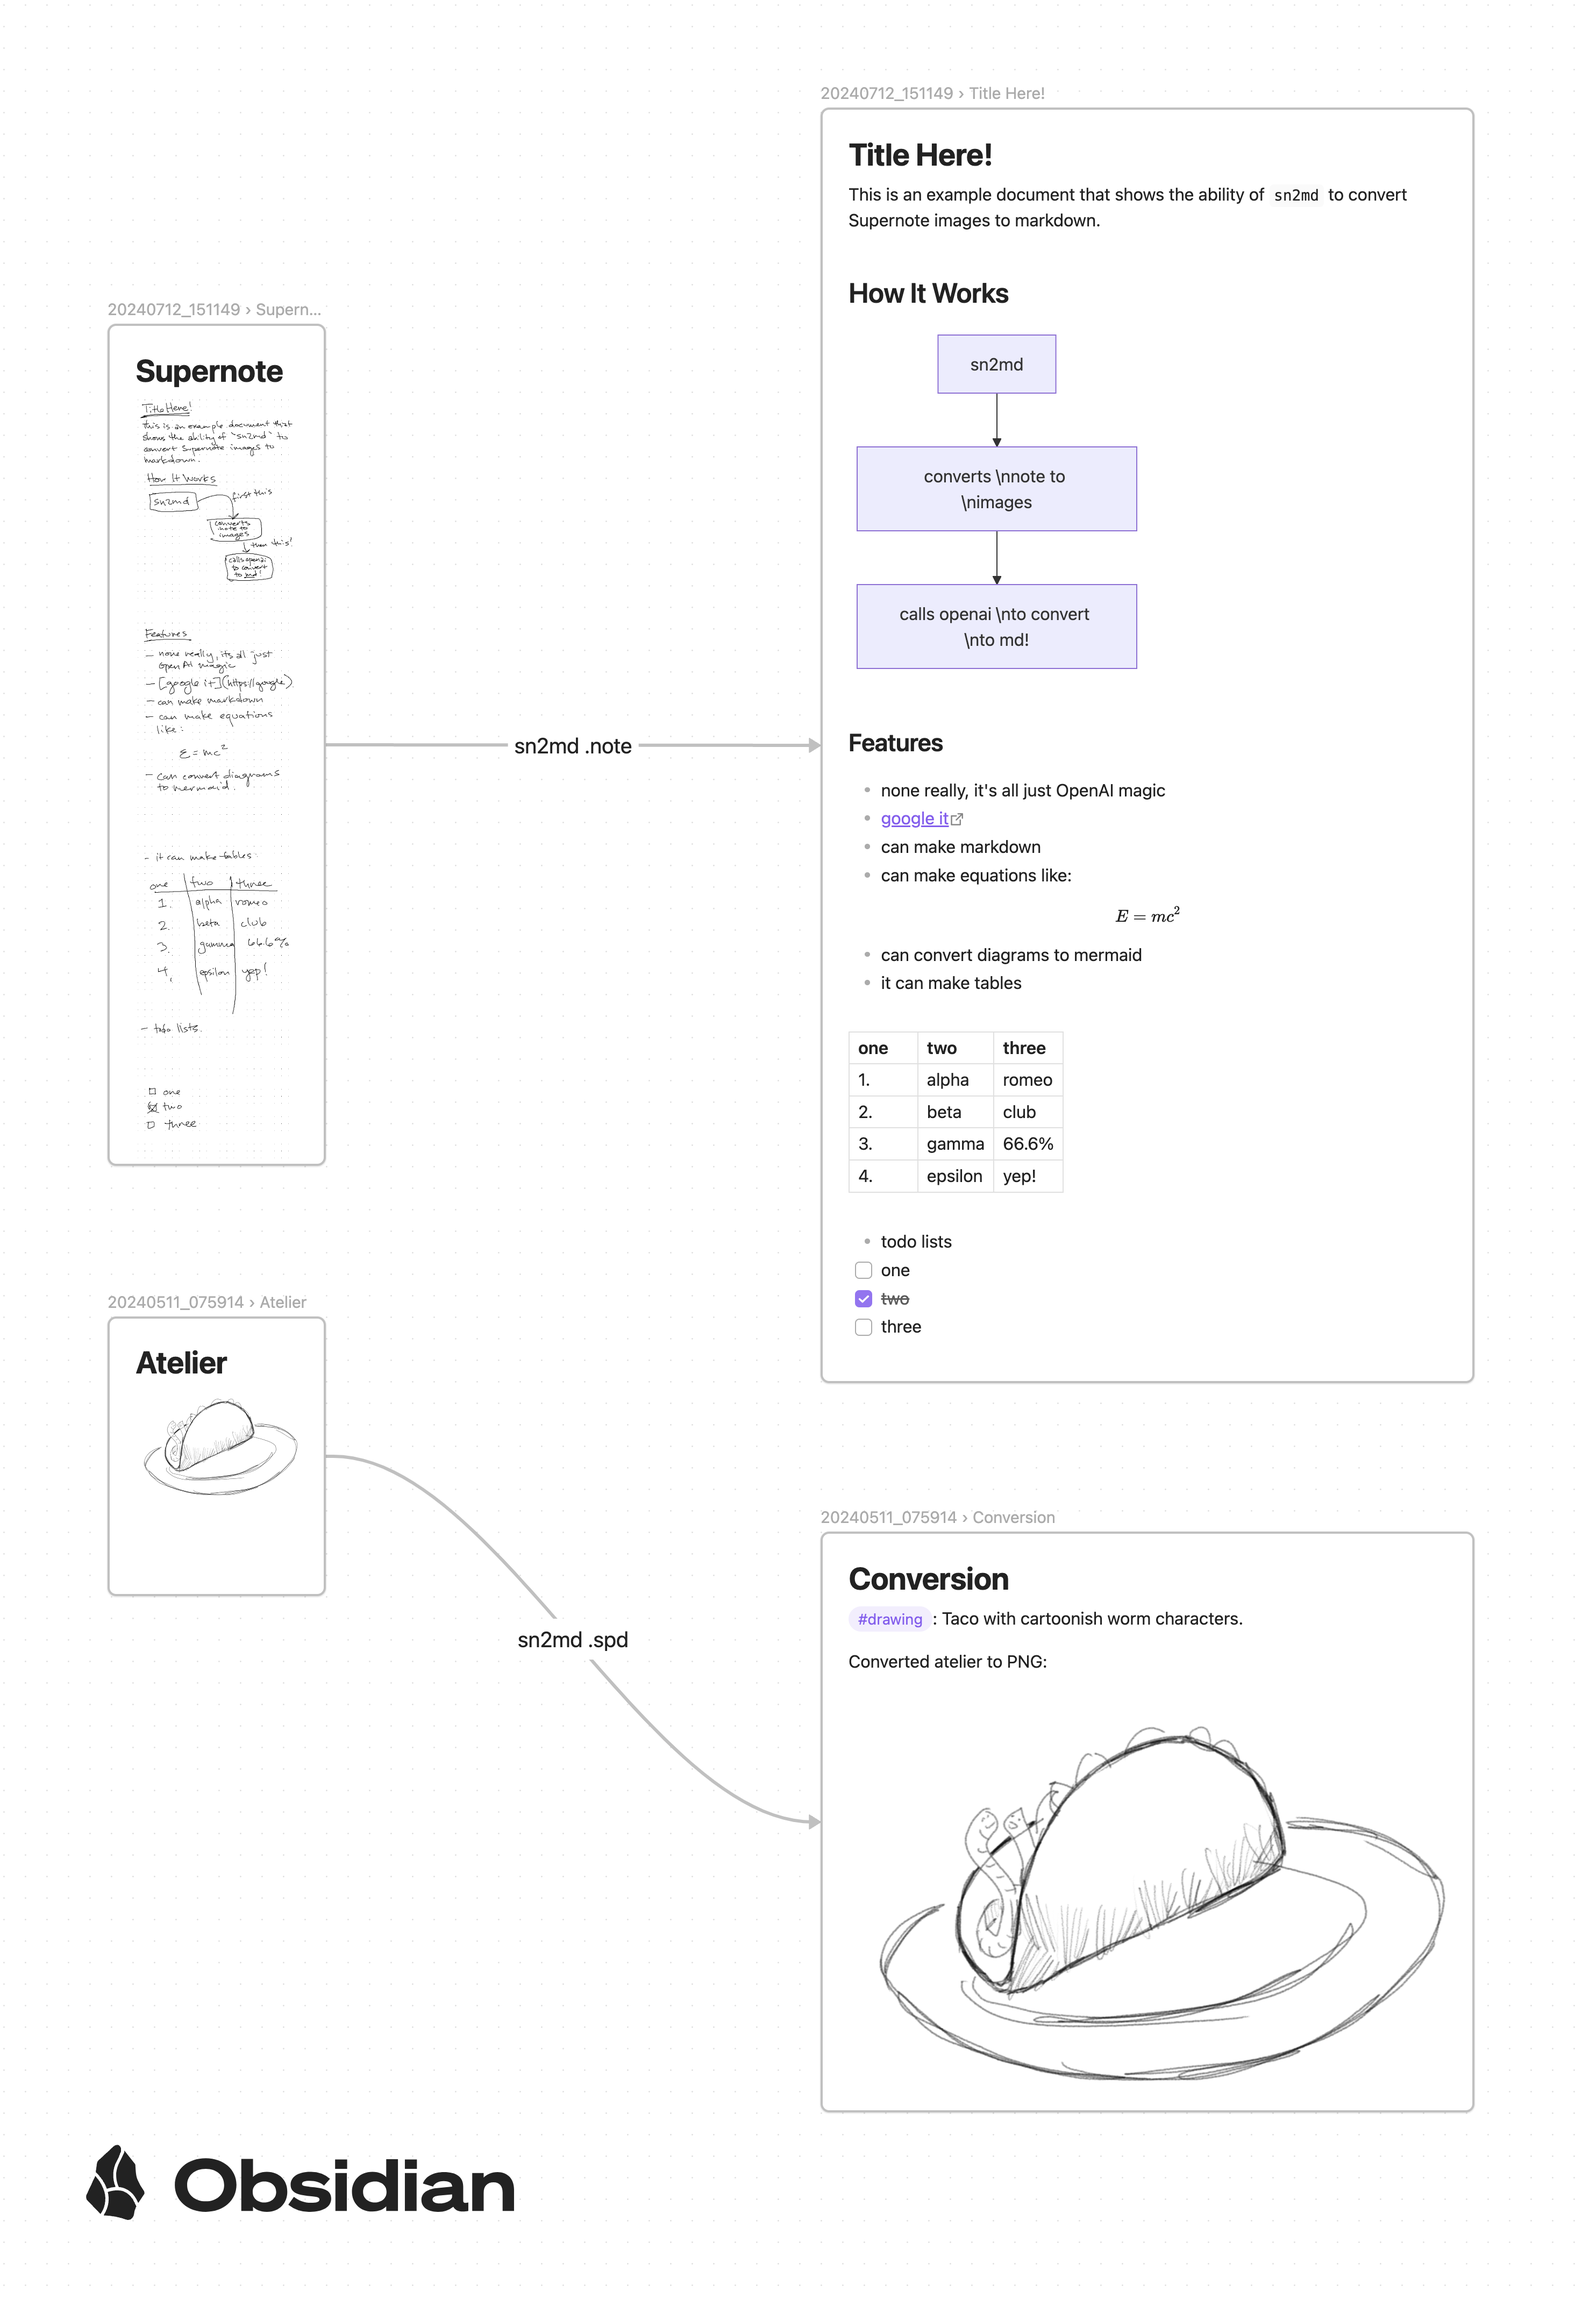
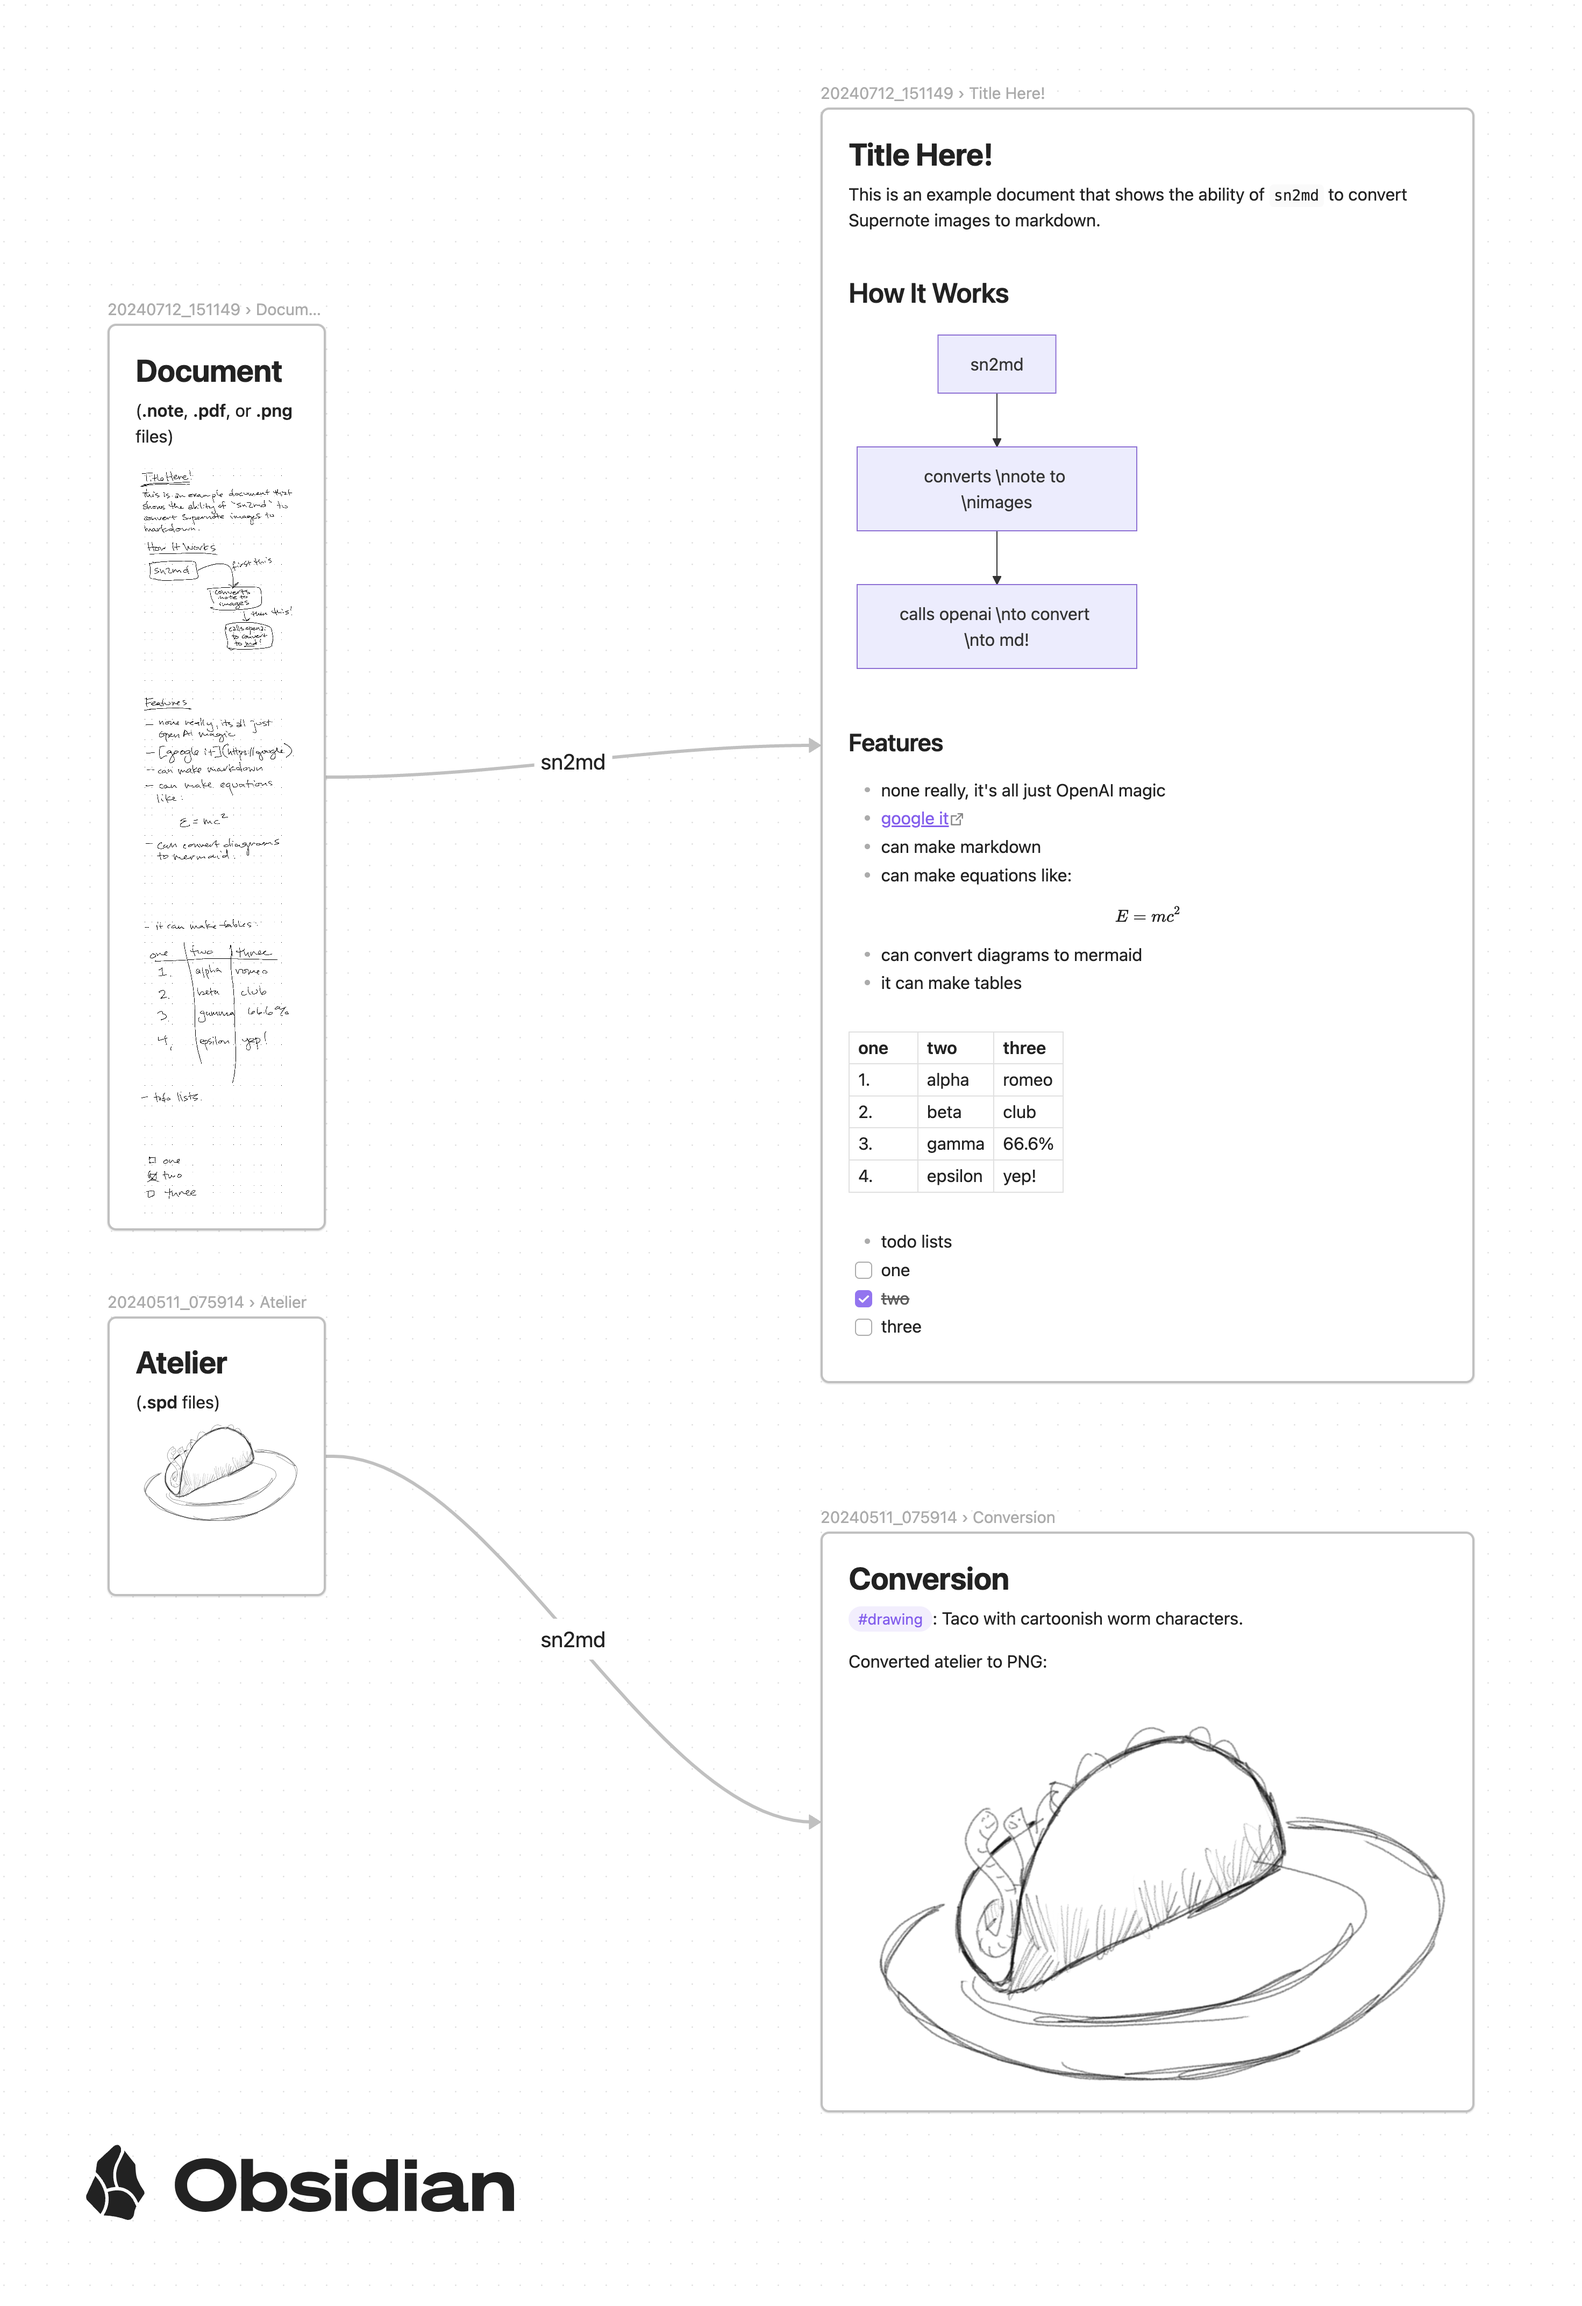
Updates readme docs.

diff --git a/README.md b/README.md
@@ -1,15 +1,15 @@
 # Supernote to text/image converter (sn2md)
 
-A CLI tool to convert Supernote `.note`, Atelier `.spd`, PDFs, and images to text using any LLM supported by the [LLM library](https://llm.datasette.io/en/stable/plugins/directory.html).
+**sn2md** is a CLI tool for converting binary image files (Supernote `.note`, Atelier `.spd`), PDFs, and PNG into human-readable text formats like Markdown, Org-mode, or HTML. This makes it easy to unlock your your notes for use in other systems (obsidian, emacs org mode, etc).
 
 1. Converts the source files to PNG images.
-2. Sends the images to the LLM to convert to text (markdown is the default format, but is customizable)
+2. Sends images to an LLM to convert it to text using the [llm library](https://llm.datasette.io/en/stable/).
 
 ![Supernote to Markdown](docs/supernote-to-markdown.png)
 
 Sample output: [20240712_151149.md](./docs/20240712_151149/20240712_151149.md)
 
-The default LLM prompt (with gpt-4o-mini) is configured to convert to markdown:
+The default configuration converts images to markdown (with gpt-4o-mini):
 
 - Supports markdown in .note files (#tags, `## Headers`, `[[Links]]`, etc)
 - Supports basic formatting (lists, tables, etc)
@@ -23,7 +23,7 @@ The default LLM prompt (with gpt-4o-mini) is configured to convert to markdown:
 pip install sn2md
 ```
 
-Setup your **OPENAI_API_KEY** environment variable.
+Setup your **OPENAI_API_KEY** environment variable (or use another provider, see below).
 
 ## Usage
 
@@ -233,6 +233,18 @@ Please let me know if you find better prompts!
 ### Output formats
 
 You can output other formats besides markdown. Contributed examples of configuration files are listed below.
+
+#### Different formats by file type
+
+You can supply different configurations by using the `--config` option. For example you could convert `.note` files to markdown, and `.spd` files to plain text:
+
+```sh
+# use the default markdown configuration for .note files:
+sn2md file <path_to_note_file> 
+
+# Use a configuration file (see below for examples) to convert .spd files to HTML:
+sn2md --config <path_to_html_config_file> file <path_to_note_file> 
+```
 
 #### Emacs Orgmode
 

diff --git a/docs/20240712_151149/20240712_151149.md b/docs/20240712_151149/20240712_151149.md
@@ -42,7 +42,8 @@ $$
 - [x] two
 - [ ] three
 
-# Supernote
+# Document
+(__.note__, __.pdf__, or __.png__ files)
 
 ![20240712_151149_0.png](20240712_151149_0.png)
 ![20240712_151149_1.png](20240712_151149_1.png)

diff --git a/docs/20240511_075914/20240511_075914.md b/docs/20240511_075914/20240511_075914.md
@@ -3,7 +3,7 @@ created: 2025-02-23
 tags: supernote
 ---
 # Atelier
-
+(__.spd__ files)
 ![20240511_075914.png](20240511_075914.png)
 
 
